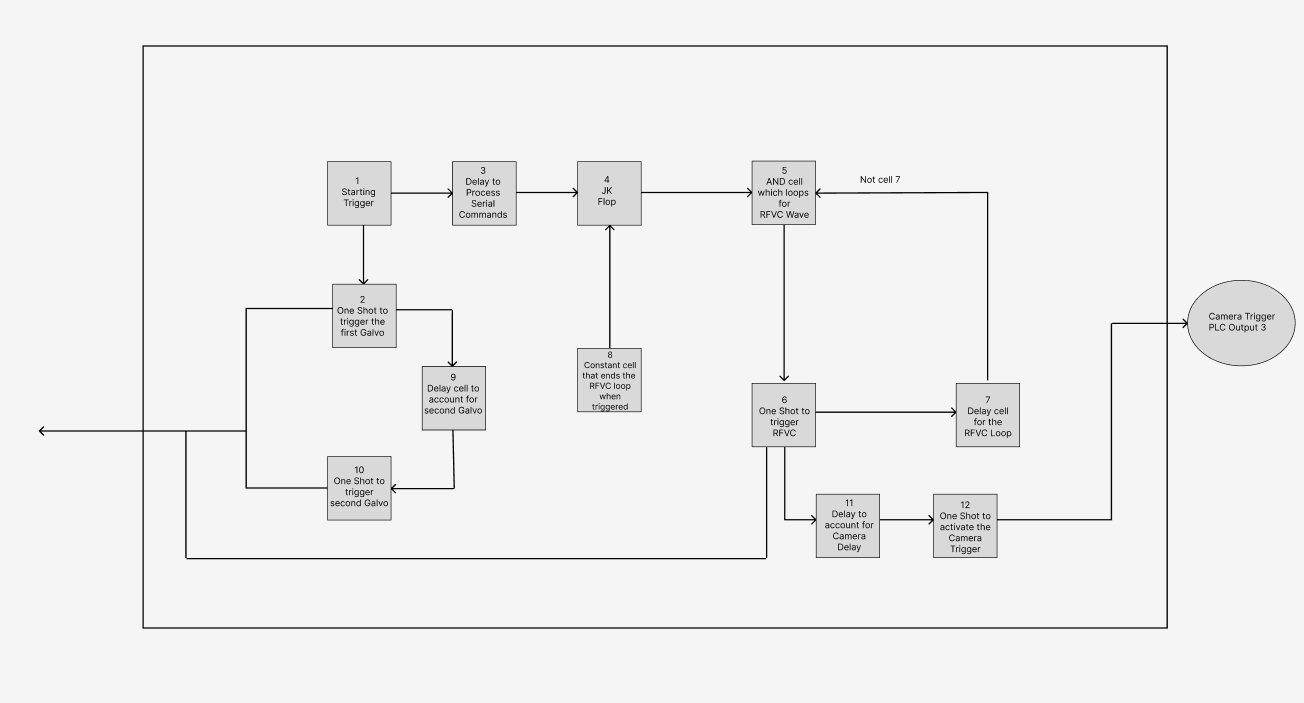
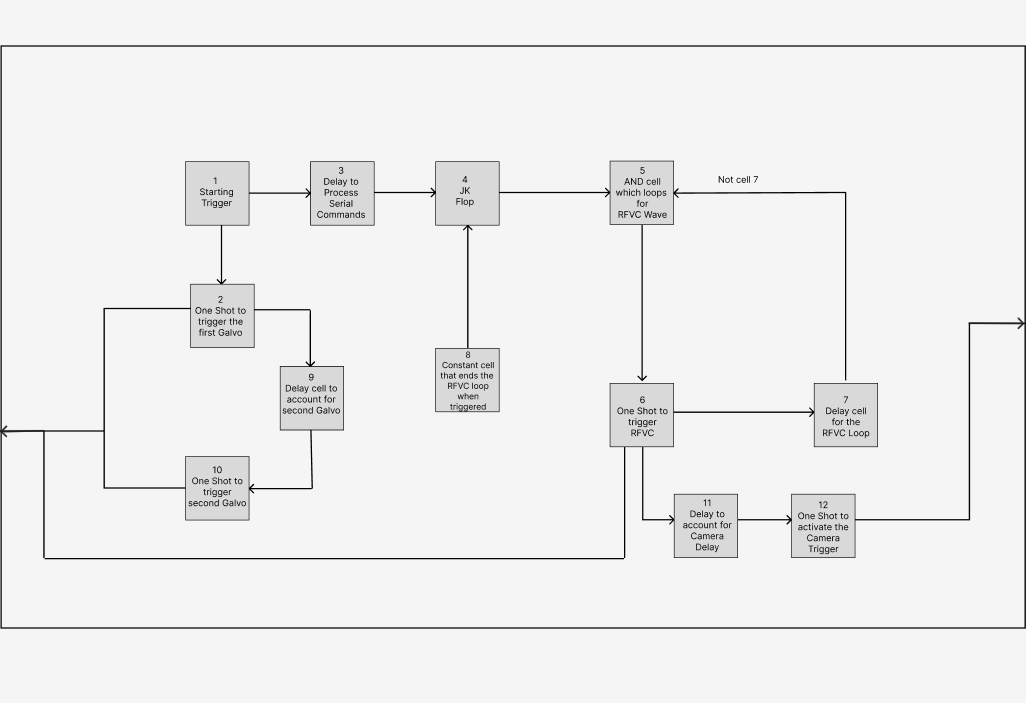
Cell 4 stays on for numZsteps, it's not a pulse train

diff --git a/docs/source/02_user_guide/01_supported_hardware/asi_logic.rst b/docs/source/02_user_guide/01_supported_hardware/asi_logic.rst
@@ -10,7 +10,7 @@ Z-Stack Acquisition
 
 The diagrams in this section describe the ASI Tiger PLC logic only. They show how
 the logic card sequences triggers between the backplane and the front connectors
-during acquisition; waveform generation itself remains on the TGDAQ.
+during acquisition; waveform generation itself remains on the TGDAC.
 
 In the standard Z-stack workflow shown below, the sequence is:
 
@@ -20,9 +20,9 @@ In the standard Z-stack workflow shown below, the sequence is:
    second galvo trigger. Together, these cells align the galvo timing with the
    upcoming exposure.
 3. In parallel, cell 3 (``Start Delay``) inserts the common startup delay, while
-   cell 4 (``One Shot``) emits ``numZSteps`` clock pulses, one pulse for each
+   cell 4 (``One Shot``) stays on for ``numZSteps`` clock pulses, one pulse for each
    axial position in the stack.
-4. Cell 5 gates the cell 4 pulse train with the inverted stage-sync input. A
+4. Cell 5 gates cell 4 with the inverted stage-sync input. A
    trigger is released only when the stage indicates that the next exposure can
    proceed.
 5. In the default configuration, cell 6 drives the camera and lasers through the
@@ -32,12 +32,12 @@ In the standard Z-stack workflow shown below, the sequence is:
 6. Cell 7 waits for the configured ``Sweep Time`` and then issues the next stage
    trigger through the front connectors, advancing to the next Z position.
 
-This loop repeats until cell 4 has emitted all ``numZSteps`` pulses. At that
+This loop repeats until cell 4 receives all ``numZSteps`` pulses. At that
 point, the PLC sequence completes and software regains control. Because the PLC
 owns the timing within the stack, inter-frame timing remains deterministic and
 software intervention is limited to stack boundaries or an operator stop command.
 
-All backplane triggers are received by the TGDAQ. The TGDAQ can be configured to
+All backplane triggers are received by the TGDAC. The TGDAC can be configured to
 emit one waveform per trigger or to begin continuous waveform output on the first
 trigger and continue until software stops it.
 
@@ -62,13 +62,16 @@ Continuous Acquisition
 
 Continuous acquisition uses a related PLC pattern, but replaces the finite
 ``numZSteps`` stack counter with a free-running loop. Cell 1 starts the sequence,
-cells 2, 9, and 10 generate the paired galvo triggers, and cell 3 provides time
-for serial-command processing before cell 4 latches the continuous state. Cells
-5, 6, and 7 then form the repeating RFVC loop: cell 5 enables the next RFVC
-trigger while cell 7 is inactive, cell 6 issues that trigger, and cell 7 delays
+cells 2, 9, and 10 generate the paired galvo triggers, and cell 3 inserts the 
+common startup delay before cell 4 latches the continuous state. Cells 5, 6, and 7 
+then form the repeating RFVC (remote focus voice coil) loop: cell 5 enables the next 
+RFVC trigger while cell 7 is inactive, cell 6 issues that trigger, and cell 7 delays
 the next loop iteration. From cell 6, cells 11 and 12 apply the camera delay and
 then assert the camera trigger output. The loop continues until software clears
 the continuous-acquisition state.
+
+The same dynamic allocation of cells 11 and 12 shown in the Z-stack mode diagram is used 
+to swap the camera and remote-focus timing paths, but is not shown in the diagram below.
 
 .. image:: ../../images/plc_continuous.png
    :align: center
